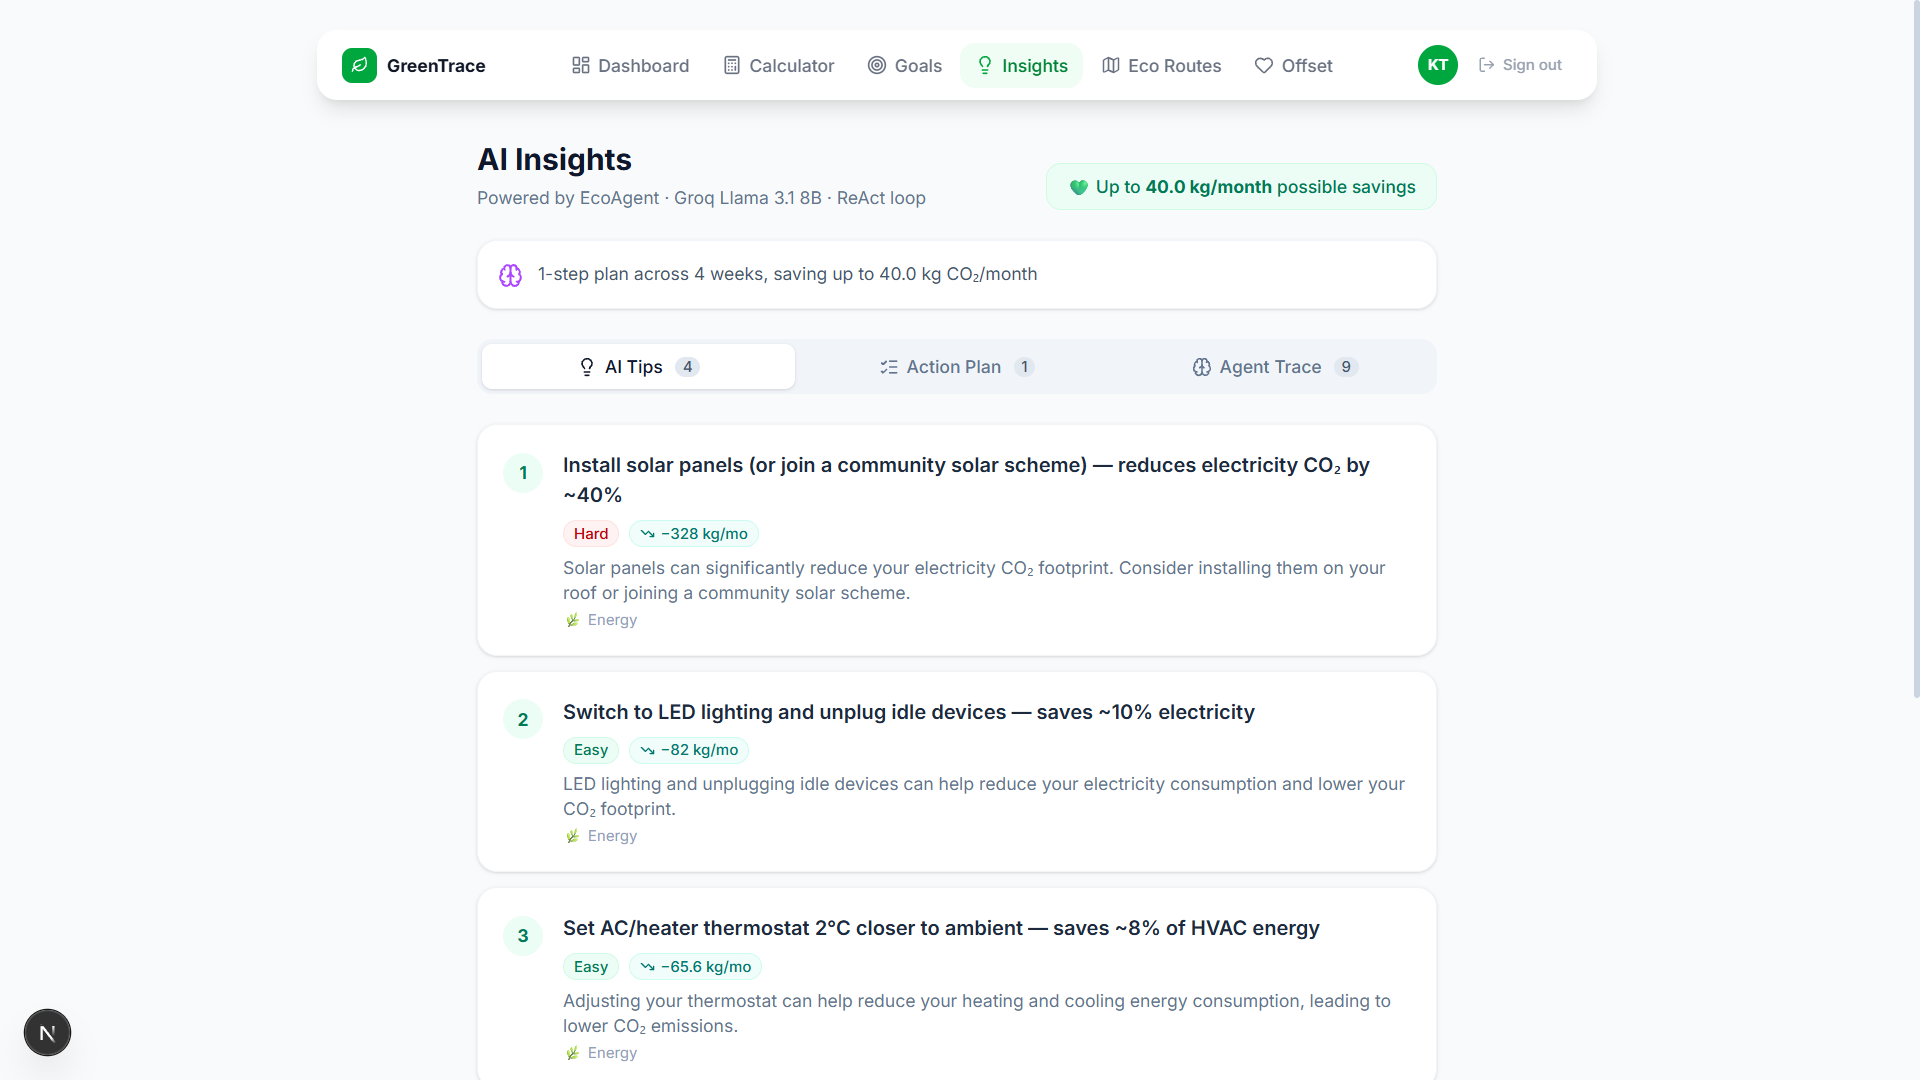
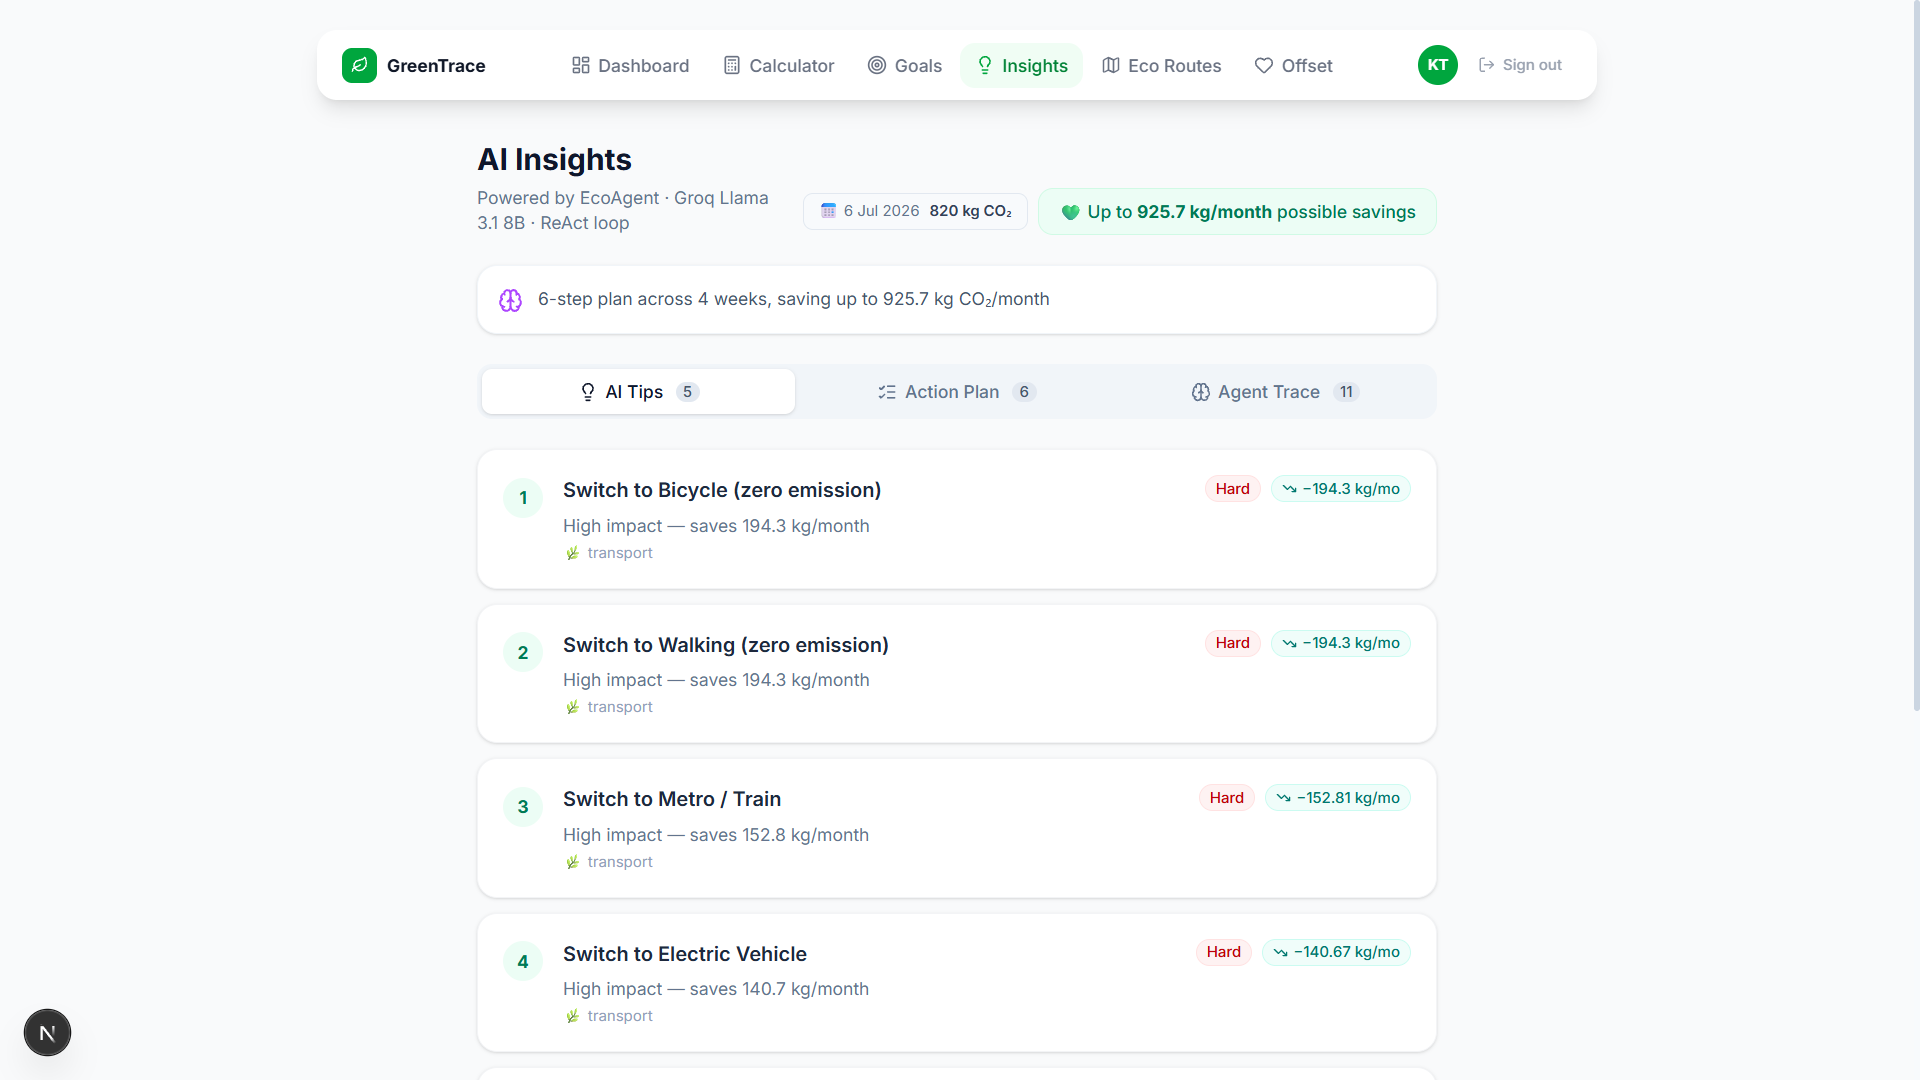
feat: insights cache, per-entry selector, goals roadmap, auth flow fixes, rate limit retry

diff --git a/src/lib/agent/ecoagent.ts b/src/lib/agent/ecoagent.ts
@@ -157,6 +157,11 @@ Commute: mode=${commuteMode}, km_per_day=${kmPerDay}. Energy: electricity_kwh=${
   let iterations = 0
   let finalAnswer = ''
 
+  // Accumulates actions from domain tools so calculate_action_plan always
+  // gets the full list — the LLM tends to only pass 1-2 actions otherwise.
+  // eslint-disable-next-line @typescript-eslint/no-explicit-any
+  const collectedActions: any[] = []
+
   // ── ReAct Loop ──────────────────────────────────────────────────────────────
   while (iterations < MAX_ITERATIONS) {
     iterations++
@@ -199,8 +204,56 @@ Commute: mode=${commuteMode}, km_per_day=${kmPerDay}. Energy: electricity_kwh=${
         // OBSERVE: Execute the tool
         let toolResult: unknown
         try {
+          // For calculate_action_plan: inject all collected actions automatically
+          // so we don't depend on the LLM correctly assembling them.
+          if (toolName === 'calculate_action_plan') {
+            if (collectedActions.length > 0) {
+              toolArgs = { ...toolArgs, actions: collectedActions, goal_kg: goalKg }
+            }
+          }
+
           toolResult = dispatchTool(toolName, toolArgs)
-          // Save action plan data so we can return it directly
+
+          // Collect actions from each domain tool for auto-injection above
+          if (toolName === 'get_transport_alternatives') {
+            // eslint-disable-next-line @typescript-eslint/no-explicit-any
+            const r = toolResult as any
+            for (const alt of (r.alternatives ?? [])) {
+              collectedActions.push({
+                title: `Switch to ${alt.mode}`,
+                category: 'transport',
+                saving_kg: alt.monthly_saving_kg,
+                difficulty: alt.monthly_saving_kg > 50 ? 'Hard' : alt.monthly_saving_kg > 20 ? 'Medium' : 'Easy',
+                detail: alt.recommendation,
+              })
+            }
+          }
+          if (toolName === 'get_food_alternatives') {
+            // eslint-disable-next-line @typescript-eslint/no-explicit-any
+            const r = toolResult as any
+            for (const sw of (r.swaps ?? [])) {
+              collectedActions.push({
+                title: sw.swap,
+                category: 'food',
+                saving_kg: sw.monthly_saving_kg,
+                difficulty: sw.difficulty,
+                detail: sw.swap,
+              })
+            }
+          }
+          if (toolName === 'get_energy_tips') {
+            // eslint-disable-next-line @typescript-eslint/no-explicit-any
+            const r = toolResult as any
+            for (const tip of (r.tips ?? [])) {
+              collectedActions.push({
+                title: tip.tip,
+                category: 'energy',
+                saving_kg: tip.monthly_saving_kg,
+                difficulty: tip.difficulty,
+                detail: tip.tip,
+              })
+            }
+          }
           if (toolName === 'calculate_action_plan') {
             actionPlanData = toolResult as typeof actionPlanData
           }

diff --git a/README.md b/README.md
@@ -105,7 +105,7 @@ User Browser
           │                              │
           ▼                              ▼
     Supabase DB                   Groq Cloud API
-   (PostgreSQL + RLS)         (Kimi K2 — tool-calling)
+   (PostgreSQL + RLS)         (Llama 3.1 8B Instant)
 ```
 
 ### Agent Flow (step by step)
@@ -115,9 +115,10 @@ User Browser
 | 1 | Receives user's CO₂ breakdown + goal | `/api/insights` POST |
 | 2 | Calls `analyze_footprint` tool | `src/lib/agent/tools.ts` |
 | 3 | Reads priority categories from observation | ReAct loop in `ecoagent.ts` |
-| 4 | Calls 1–2 domain tools (transport / food / energy) | Same file |
-| 5 | Calls `calculate_action_plan` to synthesise | Returns week-by-week plan |
+| 4 | Calls **all 3** domain tools (transport + food + energy) | Code auto-collects all results |
+| 5 | Calls `calculate_action_plan` — code injects all collected actions | Returns week-by-week plan |
 | 6 | Produces final JSON (tips + action plan + trace) | UI renders 3 tabs |
+| 7 | Result cached in `insights_cache` (Supabase) | Instant on revisit — no re-run |
 
 ---
 
@@ -140,9 +141,10 @@ User Browser
 | 🔌 **MCP Server** | `/api/mcp` exposes GreenTrace as a standardised tool server |
 | 🧮 **Carbon Calculator** | Multi-domain footprint tracking (Travel, Food, Energy, Shopping, Commute) |
 | 📊 **Dashboard** | Monthly trend charts, category breakdown, comparison vs global averages |
-| 📋 **Action Plan** | Week-by-week step plan with completion checkboxes, persisted to localStorage |
+| 📋 **Action Plan** | Week-by-week step plan with completion checkboxes, persisted to Supabase |
 | 🧠 **Agent Trace** | Transparent view of agent reasoning steps — builds user trust |
-| 🎯 **Goals & Badges** | Monthly reduction targets and achievement badges |
+| ⚡ **Insights Cache** | Agent results cached in Supabase per entry — instant on revisit, no re-run |
+| 🎯 **Goals & Roadmap** | Monthly targets, achievement badges, and AI-powered "How to reach goal" roadmap |
 | 🗺️ **Eco Route Planner** | Compare CO₂ across Car, EV, Bus, Train, Flight with live map |
 | 💚 **Carbon Offset** | Donate to verified projects via Stripe Checkout |
 | 🔐 **Authentication** | Email/password auth with Supabase + Row Level Security |
@@ -152,8 +154,8 @@ User Browser
 ## 🛠️ Tech Stack
 
 - **Framework** — Next.js 16 (App Router, Turbopack)
-- **AI Agent** — Groq Cloud API · Qwen3 32B (`qwen/qwen3-32b`) for tool-calling
-- **Agent Pattern** — ReAct (Reason + Act) loop, implemented in TypeScript
+- **AI Agent** — Groq Cloud API · `llama-3.1-8b-instant` — fast, tool-calling, 30k TPM free tier
+- **Agent Pattern** — ReAct (Reason + Act) loop with automatic retry on rate limits, implemented in TypeScript
 - **MCP** — Custom JSON-RPC 2.0 server at `/api/mcp`
 - **Styling** — Tailwind CSS v4 + Lucide React icons
 - **Auth & Database** — Supabase (PostgreSQL + Row Level Security)
@@ -178,11 +180,12 @@ greentrace/
 │   │   │   ├── travel/         # Eco route planner + map
 │   │   │   └── offset/         # Stripe carbon offset donations
 │   │   └── api/
-│   │       ├── insights/       # EcoAgent endpoint (ReAct loop)
+│   │       ├── insights/       # EcoAgent endpoint (ReAct loop + cache check)
+│   │       ├── insights-cache/ # Lightweight cache read for Goals page
 │   │       ├── mcp/            # MCP Server (JSON-RPC 2.0)
 │   │       ├── calculator/     # CO₂ calculation + save to DB
 │   │       ├── history/        # Fetch footprint entries
-│   │       ├── health/         # Health check + Supabase keepalive
+│   │       ├── health/         # Health check + Supabase keepalive (GET + HEAD)
 │   │       └── stripe/         # Stripe checkout session
 │   └── lib/
 │       ├── agent/
@@ -248,6 +251,7 @@ This creates all tables with RLS policies:
 - `goals` — monthly reduction targets
 - `user_badges` — unlocked achievements
 - `carbon_offsets` — Stripe payment records
+- `insights_cache` — EcoAgent results cached per entry (avoids re-running the agent on every visit)
 
 ### 4. Run Locally
 